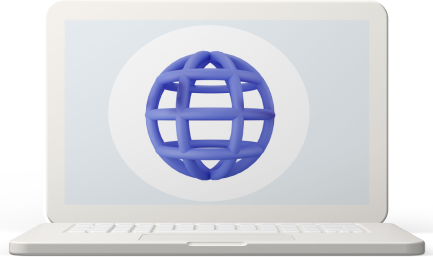
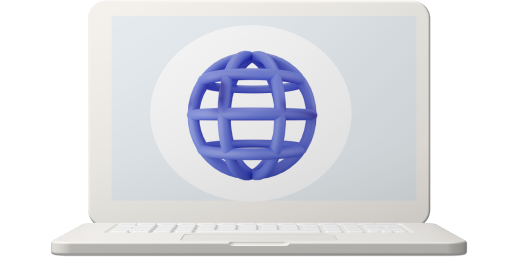
Updated UI.

diff --git a/styles/globals.css b/styles/globals.css
@@ -1253,10 +1253,12 @@ a {
   width: 100%;
   margin: auto;
   padding-top: 0;
+  position: relative;
 }
 
 .package__preview .package__pic {
-  height: 400px;
+  /* height: 400px; */
+  width: 100%;
 }
 
 .package-preview-mobile {
@@ -1285,100 +1287,105 @@ a {
 
 .package-pic-figma {
   position: absolute;
-  top: 10%;
-  right: 35%;
+  top: -8%;
+  left: 23%;
   width: 120px;
 }
 
 .package-pic-diamond {
   position: absolute;
-  top: 28%;
-  right: 28%;
+  top: 18%;
+  left: 44%;
   width: 60px;
 }
 
 .package-pic-image_32 {
   position: absolute;
-  bottom: 29%;
-  right: 28%;
+  bottom: 19%;
+  left: 44%;
   width: 65px;
 }
 
 .package-pic-image_31 {
   position: absolute;
-  bottom: 1%;
-  right: 38%;
-  width: 80px;
+  bottom: -12%;
+  left: 25%;
+  width: 45px;
 }
 
 .package-pic-shopify {
   position: absolute;
-  bottom: 82%;
-  left: 50%;
+  top: 3%;
+  left: 21%;
   width: 100px;
 }
 
 .package-pic-angular {
   position: absolute;
-  bottom: 80%;
-  right: 22%;
+  top: 7%;
+  right: 35%;
   width: 44px;
 }
 
 .package-pic-react {
   position: absolute;
-  bottom: 73%;
-  right: 6%;
+  top: 14%;
+  right: 16%;
   width: 60px;
 }
 
 .package-pic-image_30 {
   position: absolute;
-  bottom: 60%;
-  left: 49%;
+  top: 30%;
+  left: 18%;
   width: 60px;
 }
 
 .package-pic-nodejs {
   position: absolute;
-  bottom: 31%;
-  right: 9%;
+  bottom: 22%;
+  right: 19%;
   width: 44px;
 }
 
 .package-pic-ror {
   position: absolute;
-  bottom: 25%;
-  left: 50%;
+  bottom: 15%;
+  left: 22%;
   width: 44px;
 }
 
 .package-pic-android {
   position: absolute;
-  width: 70px;
-  bottom: 79%;
-  right: 23%;
+  width: 60px;
+  top: -7%;
+  right: 42%;
 }
 
 .package-pic-flutter {
   position: absolute;
   width: 40px;
-  bottom: 63%;
-  left: 60%;
+  top: 12%;
+  left: 30%;
 }
 
 .package-pic-react_2 {
   position: absolute;
-  width: 75px;
-  bottom: 56%;
-  right: 19%;
+  width: 65px;
+  top: 24%;
+  right: 33%;
 }
 
 .package-pic-swift {
   position: absolute;
-  width: 60px;
-  bottom: 45%;
-  left: 59%;
+  width: 70px;
+  top: 43%;
+  left: 27%;
+}
+
+.package-pic-slide2 {
+  margin-top: 54px;
+  margin-bottom: 15px;
 }
 /* Package Component CSS End */
 
@@ -1584,79 +1591,76 @@ a {
   }
 
   .package-pic-figma {
-    top: auto;
-    bottom: 30%;
-    right: 65%;
+    top: 5%;
+    left: 25%;
     width: 70px;
   }
   
-  .package-pic-diamond {
-    top: auto;
-    bottom: 27%;
-    right: 48%;
+  /* .package-pic-diamond {
+    left: 295px;
     width: 55px;
-  }
+  } */
   
-  .package-pic-image_32 {
+  /* .package-pic-image_32 {
     bottom: 7%;
     right: 48%;
-  }
+  } */
   
   .package-pic-image_31 {
     bottom: 0;
-    left: 20%;
   }
 
   .package-pic-shopify {
-    bottom: 38%;
-    left: 15%;
+    top: -12%;
   }
   
   .package-pic-angular {
-    bottom: 37%;
-    right: 35%;
+    top: -7%;
   }
   
   .package-pic-react {
-    bottom: 33%;
-    right: 11%;
+    top: 0;
   }
   
   .package-pic-image_30 {
-    bottom: 25%;
-    left: 11%;
+    top: 20%;
   }
   
-  .package-pic-nodejs {
-    bottom: 9%;
-    right: 15%;
-  }
+  /* .package-pic-nodejs {
+    bottom: 75px;
+  } */
   
-  .package-pic-ror {
-    bottom: 5%;
-    left: 15%;
-  }
+  /* .package-pic-ror {
+    bottom: 45px;
+  } */
 
   .package-pic-android {
     width: 65px;
-    bottom: 37%;
-    right: 39%;
   }
   
   .package-pic-flutter {
     width: 40px;
-    bottom: 30%;
     left: 31%;
+  }
+
+  .package-pic-mobile {
+    max-height: 400px !important;
+    height: 393px;
   }
   
   .package-pic-react_2 {
-    bottom: 23%;
-    right: 33%;
+    width: 70px;
   }
   
   .package-pic-swift {
-    bottom: 17%;
+    width: 60px;
+    top: 45%;
     left: 29%;
+  }
+
+  .package-pic-slide2 {
+    margin-top: 74px;
+    margin-bottom: 15px;
   }
   /* Package Component CSS End */
 }
@@ -1907,48 +1911,38 @@ a {
     font-size: 40px;
   }
 
-  .package__preview .package__pic {
+  /* .package__preview .package__pic {
     height: 226px;
-  }
+  } */
 
   .package-pic-figma {
-    top: auto;
-    bottom: 28%;
-    right: 63%;
     width: 40px;
   }
   
   .package-pic-diamond {
-    top: auto;
-    bottom: 26%;
-    right: 47%;
+    left: 45%;
     width: 30px;
   }
   
   .package-pic-image_32 {
-    bottom: 11%;
-    right: 46%;
     width: 35px;
   }
   
   .package-pic-image_31 {
-    bottom: 3%;
-    left: 20%;
-    width: 60px;
+    left: 22%;
+    width: 40px;
   }
 
   .package-pic-shopify {
-    bottom: 34%;
+    top: -18%;
     width: 80px;
   }
   
   .package-pic-angular {
-    bottom: 32%;
-    width: 40px;
+    width: 30px;
   }
   
   .package-pic-react {
-    bottom: 28%;
     width: 50px;
   }
   
@@ -1957,37 +1951,41 @@ a {
   }
   
   .package-pic-nodejs {
-    bottom: 13%;
     width: 35px;
   }
   
   .package-pic-ror {
-    bottom: 10%;
     width: 35px;
   }
 
   .package-pic-android {
     width: 40px;
-    bottom: 33%;
-    right: 38%;
+    top: -8%;
+    right: 40%;
   }
   
   .package-pic-flutter {
     width: 30px;
-    bottom: 27%;
     left: 29%;
   }
   
   .package-pic-react_2 {
     width: 40px;
-    bottom: 23%;
-    right: 32%;
   }
   
   .package-pic-swift {
     width: 40px;
-    bottom: 18%;
+    top: 43%;
     left: 27%;
+  }
+
+  .package-pic-mobile {
+    height: 226px;
+  }
+
+  .package-pic-slide2 {
+    margin-top: 55px;
+    margin-bottom: 10px;
   }
   /* Package Component CSS End */
 
@@ -1996,6 +1994,12 @@ a {
     height: 300px;
   }
   /* Teams Component CSS End */
+}
+
+@media only screen and (max-height: 767px) {
+  .contact-entry-center {
+    height: 100%;
+  }
 }
 
 @media only screen and (max-height: 767px) {

diff --git a/pages/package.js b/pages/package.js
@@ -128,7 +128,7 @@ const Package = () => {
                                             </div>
                                         </div>
                                         <div className="package__preview">
-                                            <img className="package__pic" src="images/Laptop.png" alt="" />
+                                            <img className="package__pic package-pic-slide2" src="images/Laptop.png" alt="" />
                                             <img className="package-pic-shopify" src="images/shopify.png" alt="" />
                                             <img className="package-pic-angular" src="images/angular.png" alt="" />
                                             <img className="package-pic-react" src="images/react_2.png" alt="" />

diff --git a/pages/teams.js b/pages/teams.js
@@ -87,7 +87,7 @@ const Teams = () => {
                         </div>
                         <div className="teams__col">
                             <div className="teams__container">
-                                <div className='row mb-5'>
+                                <div className='row'>
                                     <div className='col-lg-6' >
                                         <Slider className="teams__slider js-teams-slider" {...settingsRight} >
                                             <div className='row teams-cmnt-row' >
